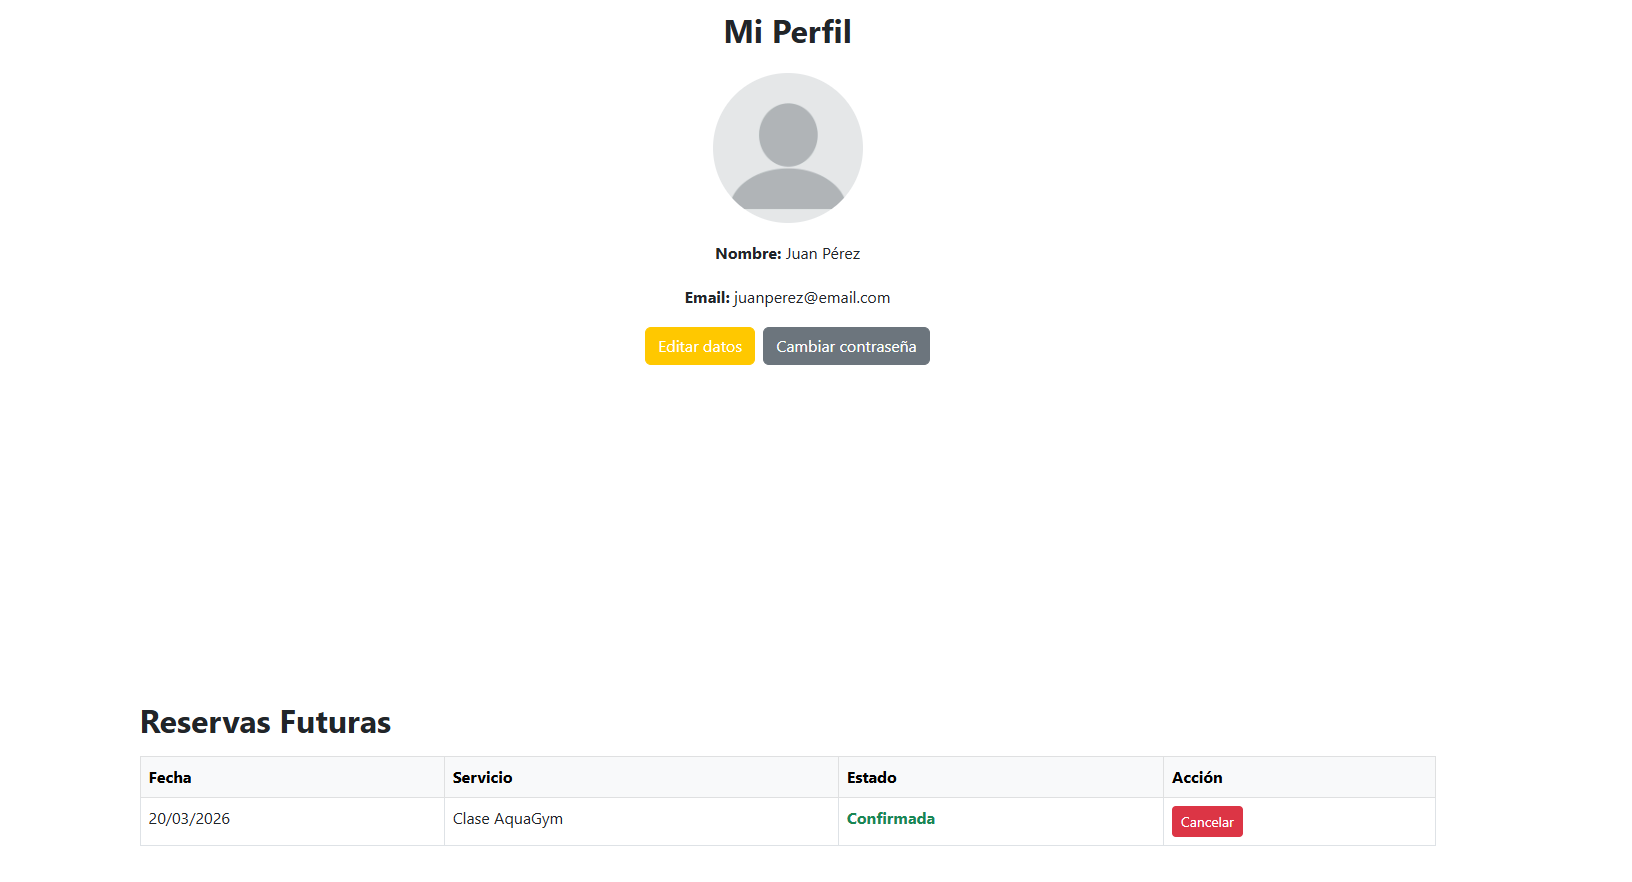
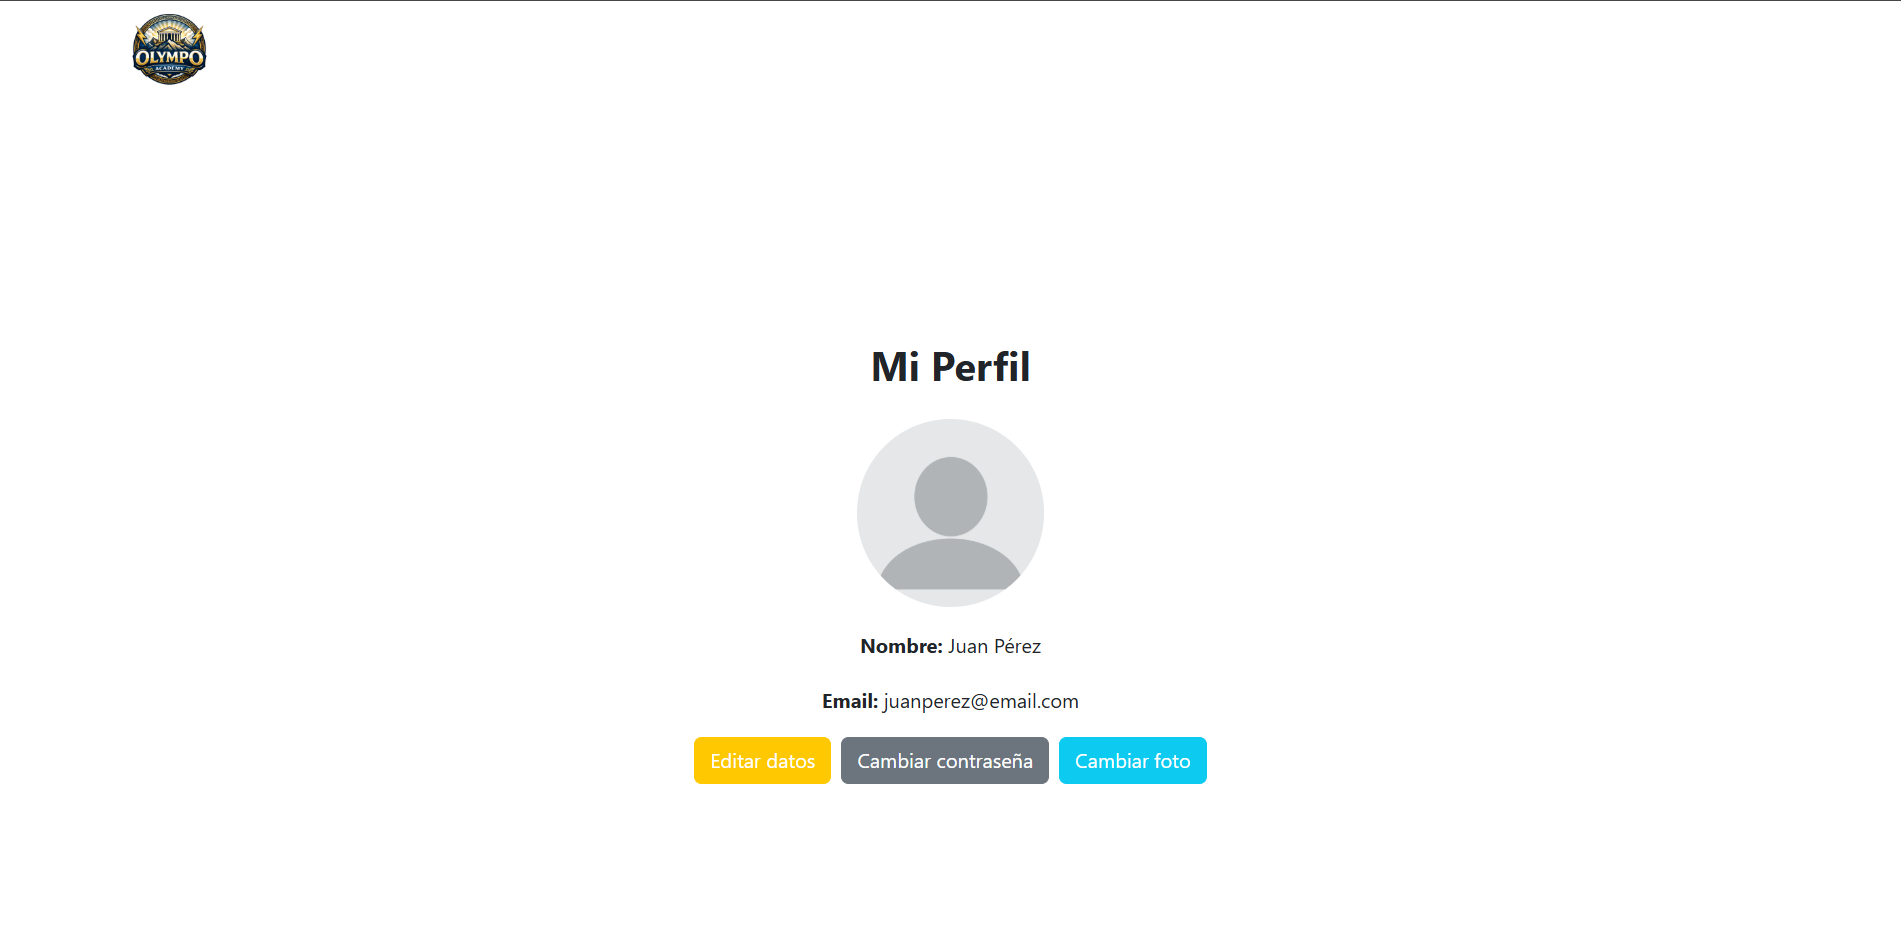
added header to admin.html and botton to index.html in userProfile.html

diff --git a/admin.html b/admin.html
@@ -2,16 +2,44 @@
 <html lang="es">
 <head>
     <meta charset="UTF-8">
-    <title>Panel de Administración</title>
     <meta name="viewport" content="width=device-width, initial-scale=1">
+    <title>Práctica DWS · Olympo Academy · Panel de Administración</title>
+    <link rel="icon" type="image/png" href="/images/logoSinFondo.png" />
     <link rel="stylesheet" href="styles.css">
     <link rel="stylesheet" href="ourStyles.css">
+    
 </head>
 
-<body class="background2">
+<body class="background2 admin-page">
+
+<nav class="navbar navbar-expand-lg navbar-dark fixed-top" id="mainNav">
+    <div class="container">
+        <a class="navbar-brand" href="index.html">
+            <img src="images/logoSinFondo.png" alt="Logo">
+        </a>
+
+        <button class="navbar-toggler" type="button" data-bs-toggle="collapse"
+            data-bs-target="#navbarResponsive" aria-controls="navbarResponsive"
+            aria-expanded="false" aria-label="Toggle navigation">
+            Menu <i class="fas fa-bars ms-1"></i>
+        </button>
+
+        <div class="collapse navbar-collapse" id="navbarResponsive">
+            <ul class="navbar-nav text-uppercase ms-auto py-4 py-lg-0">
+                <li class="nav-item"><a class="nav-link" href="index.html#facilities">Instalaciones</a></li>
+                <li class="nav-item"><a class="nav-link" href="index.html#team">Equipo</a></li>
+                <li class="nav-item"><a class="nav-link" href="index.html#doubts">Dudas</a></li>
+                <li class="nav-item"><a class="nav-link" href="reseñas.html">Reseñas</a></li>
+                <li class="nav-item"><a class="nav-link" href="reservas.html">Reservas</a></li>
+                <li class="nav-item"><a class="nav-link" href="login.html">Login</a></li>
+                <li class="nav-item"><a class="nav-link" href="userProfile.html">Mi Perfil</a></li>
+                <li class="nav-item"><a class="nav-link" href="admin.html">Panel de Administración</a></li>
+            </ul>
+        </div>
+    </div>
+</nav>
 
 <div class="container py-5 ">
-
     <h1 class="text-center mb-5">Panel de Administración</h1>
 
    <!--Users-->
@@ -689,6 +717,34 @@
         </div>
     </div>
 </div>
+
+<!-- Footer-->
+    <footer class="footer py-4 footerBackground">
+        <div class="container-fluid">
+            <div class="row align-items-end">
+            <!-- Text on the left -->
+            <div class="col-lg-4 text-lg-start text-white">
+                &#127936; Olympo Academy 2026 &#128509;
+            </div>
+
+            <!-- Icons in the lower right corner -->
+            <div class="col-lg-4 ms-lg-auto d-flex align-items-end justify-content-end">
+                <div class="d-flex gap-3 text-white">
+                    Síganos
+                    <a class="btn btn-dark btn-social" href="https://x.com" aria-label="Twitter">
+                        <i class="fab fa-twitter"></i>
+                    </a>
+                    <a class="btn btn-dark btn-social" href="https://www.facebook.com" aria-label="Facebook">
+                        <i class="fab fa-facebook-f"></i>
+                    </a>
+                    <a class="btn btn-dark btn-social" href="https://es.linkedin.com/?mcid=6968657504633266178&src=go-pa&trk=sem-ga_campid.18146679037_asid.140850334975_crid.694860685343_kw.linkedin_d.c_tid.kwd-148086543_n.g_mt.e_geo.9198450&cid=&gclsrc=aw.ds&gad_source=1&gad_campaignid=18146679037" aria-label="LinkedIn">
+                        <i class="fab fa-linkedin-in"></i>
+                    </a>
+                </div>
+            </div>
+            </div>
+        </div>
+    </footer>
 
 </body>
 </html>

diff --git a/userProfile.html b/userProfile.html
@@ -2,15 +2,23 @@
 <html lang="es">
 <head>
     <meta charset="UTF-8">
-    <title>Mi Perfil</title>
     <meta name="viewport" content="width=device-width, initial-scale=1">
-
+    <title>Práctica DWS · Olympo Academy · Mi Perfil</title>
+    <link rel="icon" type="image/png" href="/images/logoSinFondo.png" />
     <link rel="stylesheet" href="styles.css">
     <link rel="stylesheet" href="ourStyles.css">
 </head>
 
 <body class="background2">
-
+     <!-- minimal navbar -->
+    <nav class="navbar navbar-light bg-transparent minimal-nav">
+        <div class="container">
+            <a class="navbar-brand" href="index.html">
+                <img src="images/logoSinFondo.png" alt="Logo">
+            </a>
+        </div>
+    </nav>
+    
 <div class="container py-5">
 
     <!-- User's Data -->

diff --git a/ourStyles.css b/ourStyles.css
@@ -12,6 +12,26 @@
   object-fit: cover;
 }
 
+.minimal-nav {
+    padding: 0 !important;
+    margin: 0 !important;
+}
+.minimal-nav .container { /* this removes margins */
+    padding-left: 0 !important;
+    margin-left: 0.000001 !important;
+}
+.minimal-nav .navbar-brand {
+    padding-left: 0 !important;
+    margin-left: 0 !important;
+}
+.minimal-nav .navbar-brand img {
+    height: 70px;
+}
+
+.admin-page {
+    padding-top: 100px;
+}
+
 #reviews {
   padding-top: 80px;
 }
@@ -19,6 +39,7 @@
 .footerBackground{
     background: #222;
 }
+
 .background2{
     background: linear-gradient(to bottom, #ffffff, #ffffff);
     background-size: cover;
@@ -340,4 +361,8 @@
     text-decoration: none;
     color: #333;
 }
+
 }
+
+
+
